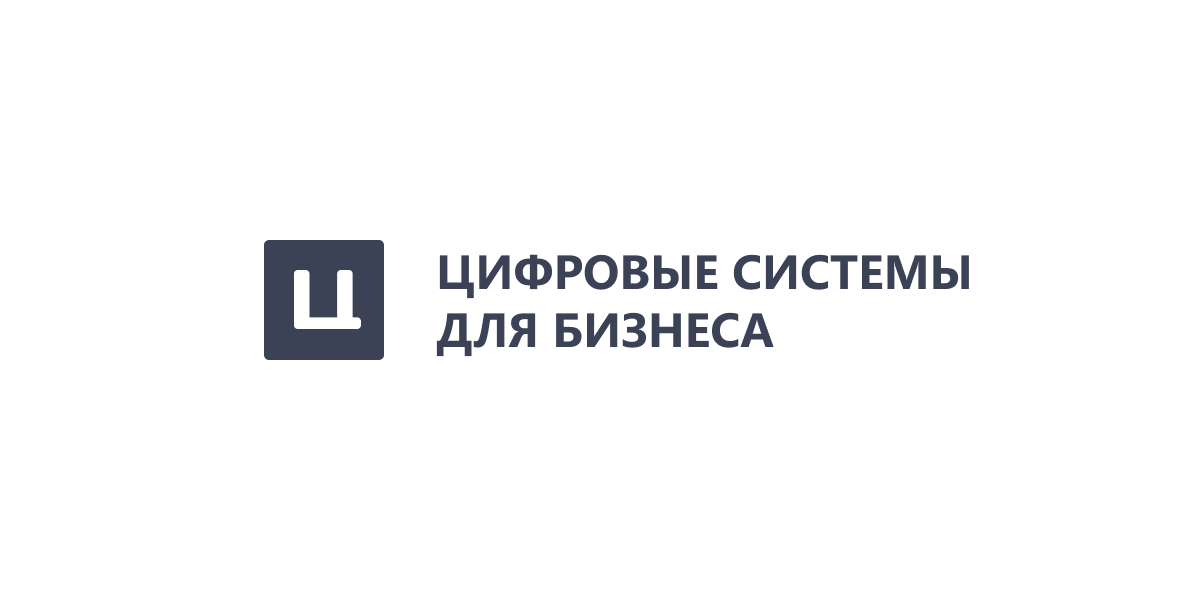
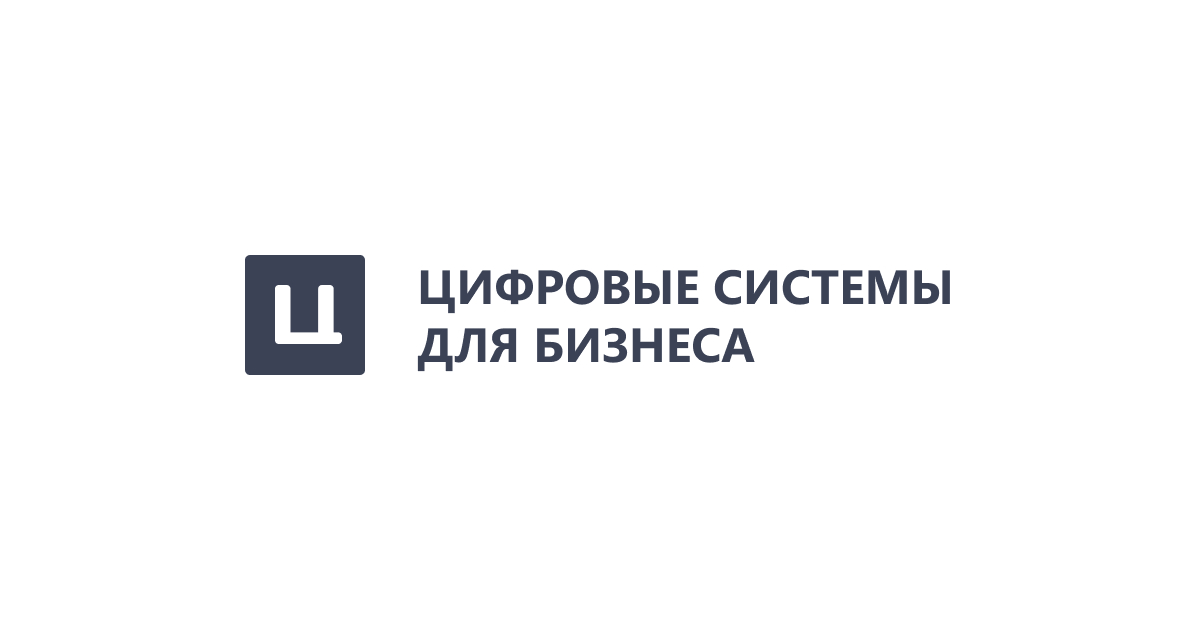
og

Changed region(s): [[0.185, 0.39, 0.8325, 0.6]]

diff --git a/index.html b/index.html
@@ -10,7 +10,7 @@
     <meta property="og:description" content="Цифровые системы для бизнеса"/>
     <meta property="og:image" content="https://xn--80a5ar2a.xn--p1ai/opengraph.jpg"/>
     <meta property="og:image:width" content="1200"/>
-    <meta property="og:image:height" content="600"/>
+    <meta property="og:image:height" content="630"/>
     <meta property="og:url" content= "https://xn--80a5ar2a.xn--p1ai/" />
     <!-- Bootstrap CSS -->
     <link rel="stylesheet" href="https://stackpath.bootstrapcdn.com/bootstrap/4.2.1/css/bootstrap.min.css" integrity="sha384-GJzZqFGwb1QTTN6wy59ffF1BuGJpLSa9DkKMp0DgiMDm4iYMj70gZWKYbI706tWS" crossorigin="anonymous">
